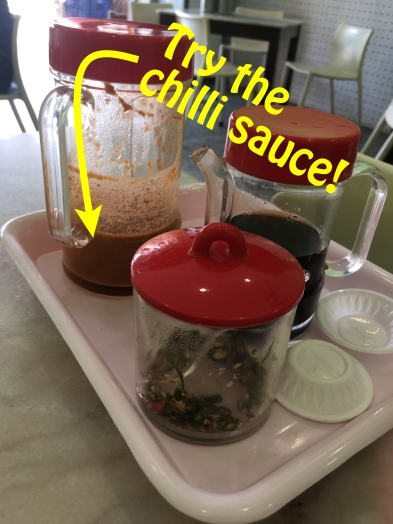
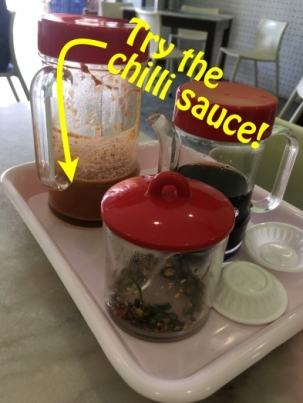
thunder tea rice

diff --git a/_posts/2019-09-24-joo-chiat-thunder-tea-rice.md b/_posts/2019-09-24-joo-chiat-thunder-tea-rice.md
@@ -1,0 +1,36 @@
+---
+layout: post
+title:  "Thunder tea rice @ Joo chiat"
+categories: [ lei cha, restaurant, joo chiat ]
+image: assets/images/thunder-tea-rice-1.jpg
+featured: false
+hidden: false
+rating: 5
+author: steve
+---
+
+I first heard of **thunder tea rice** or **lei cha** in Sarawak where there is a [large Hakka population](https://www.theborneopost.com/2013/04/12/research-being-done-on-history-of-hakkas/). I did not actually eat the dish there, but read about it on a random food blog about Kuching while trying to work out how to fill my free time there. The logistics to eat thunder tea rice in Kuching proved more than I could handle (both distance from my hotel and early opening hours), but ever since then I have kept my eyes open for hawkers selling it in Singapore - determined to finally taste this dish. **Thunder tea rice** visually reminded me of vegetarian version of [bibimbap](https://en.wikipedia.org/wiki/Bibimbap) a dish I got addicted to when working next door to a (since sadly closed) Korean eatery back in Sydney. One day I was meeting someone for a drink at the Cider Pit on Joo Chiat Rd, when I noticed next door was an eatery called "Thunder Tea Rice". I must have walked past it 100 times and never noticed it, perhaps because I did not know what it was and the fact is it inset from the road. I made it my mission to go there...for lunch the next day, first I had some cider to drink.
+
+![thunder tea rice eatery]({{site.baseurl}}/assets/images/thunder-tea-rice-2.jpg "Thunder Tea Rice eatery")
+
+The **lei cha** itself refers to the the ground tea soup, made primarily from tea leaves and mixed with other herbs, nuts, and seeds. All the ingredients are ground using a giant mortar and pestle until a thick green paste texture is achieved. A detailed description of the process can be seen in [Netflix's Flavourful Origins](https://www.netflix.com/sg/title/80991060). The soup is created by mixing it with boiling water and often garnishing with some sesame seeds.
+
+Accompanying the **lei cha** is a bowl of rice (often brown), finely shredded vegetables, tofu, peanuts, and fried ikan bilis (anchovies for the non-malay speakers), hence the similarities to bibimbap. The texture of the different ingredients is half the pleasure in eating this dish, softness of cabbage followed by the crunch of nuts and ikan bilis. My personal preference, which I have not seen others doing yet, is to pour the lei cha into the bowl of vegetables and rice, creating a soup. 
+
+![thunder tea rice mixed]({{site.baseurl}}/assets/images/thunder-tea-rice-3.jpeg)
+
+It _feels_ as if it is one of the more healthy hawker dishes here in Singapore, although I have nothing to back that statement up with. However, it does make you feel good after one two many ciders the night before. Surprisingly, I have yet to find a Singaporean who shares with me this love of **thunder tea rice** 🤷♂
+
+**Price:** $5.80
+
+**Coffee shop:** Thunder tea rice  
+**Address:** #01-04, 328 Joo Chiat Rd, Joo Chiat  
+**Hours:** 10:00am - 9:30pm  
+
+<iframe src="https://www.google.com/maps/embed?pb=!1m18!1m12!1m3!1d3988.776984832445!2d103.90033531421253!3d1.3090789990452147!2m3!1f0!2f0!3f0!3m2!1i1024!2i768!4f13.1!3m3!1m2!1s0x31da18129bfb0fed%3A0xea69d1a7302db661!2sThunder%20Tea%20Rice!5e0!3m2!1sen!2ssg!4v1569311837357!5m2!1sen!2ssg" width="600" height="350" frameborder="0" style="border:0;" allowfullscreen=""></iframe>
+
+***  
+
+P.S. You have to try the homemade chilli sauce, hidden within the drinks fridge. Has a good kick.  
+
+![thunder tea rice mixed]({{site.baseurl}}/assets/images/thunder-tea-rice-4.jpeg "Thunder Tea Rice mixed")
